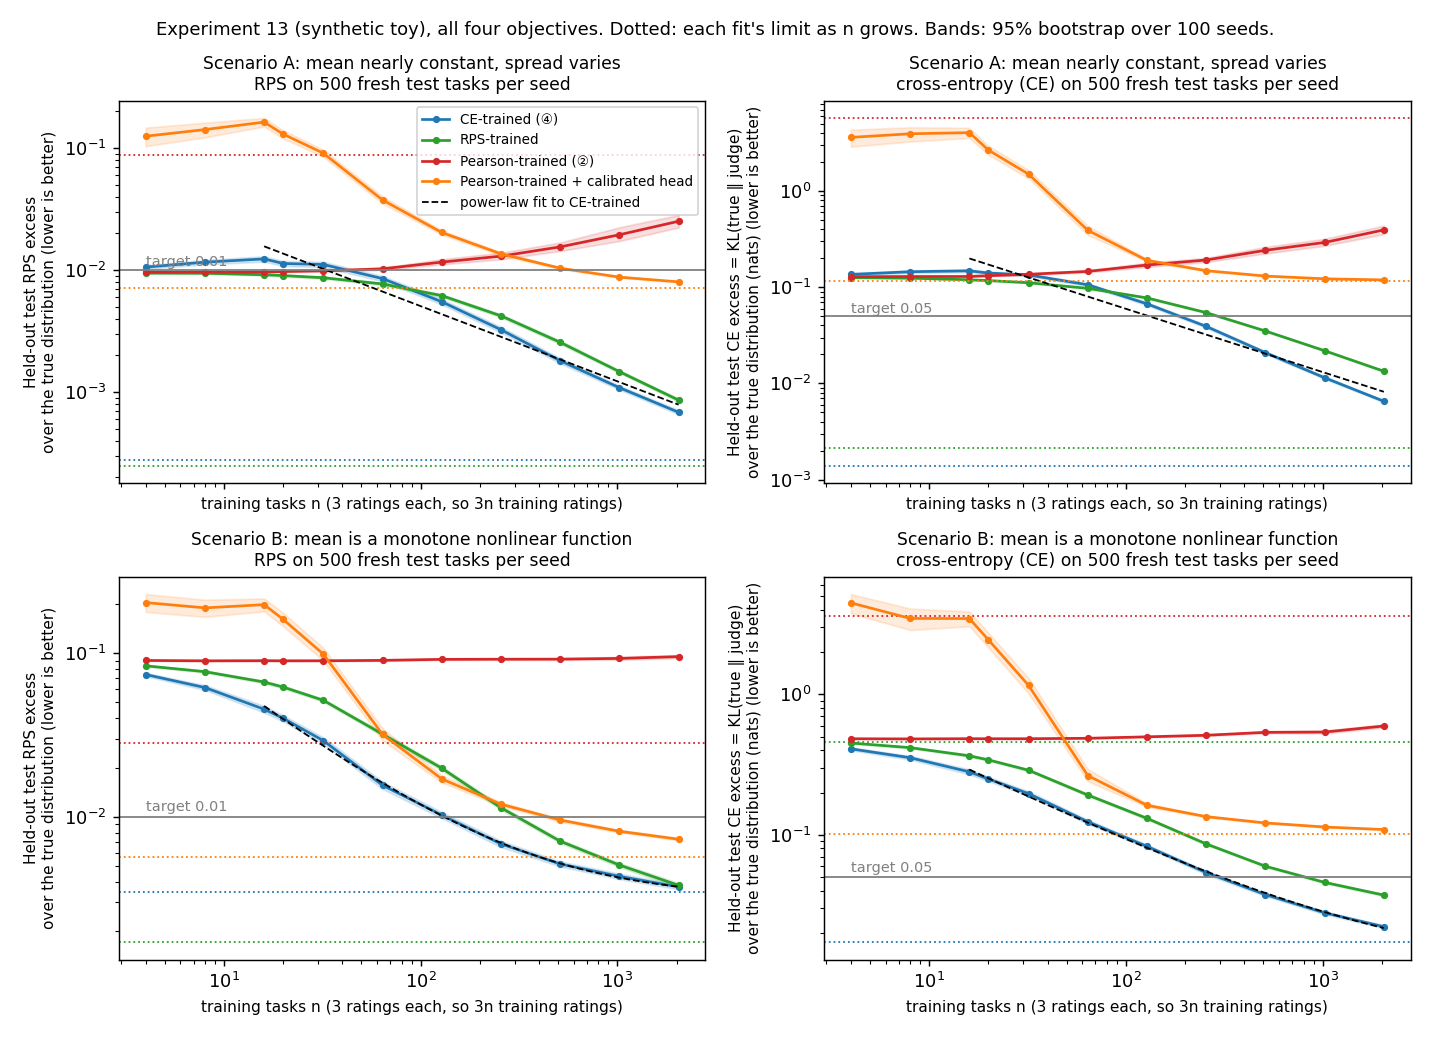
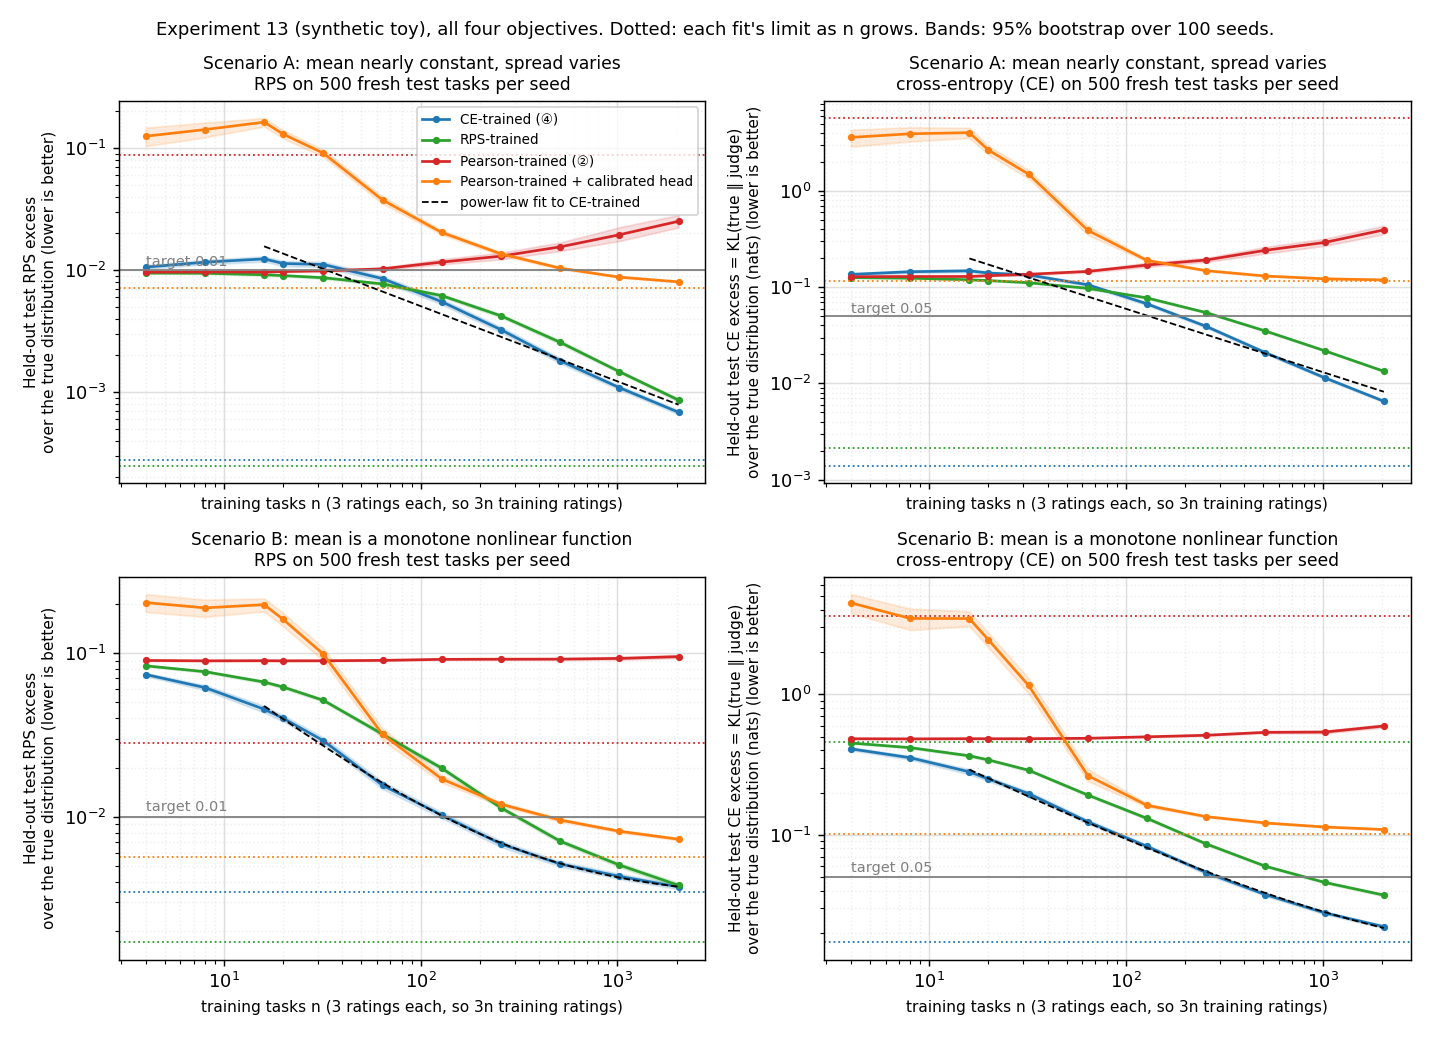
Exp 13 figures: add major and minor gridlines

diff --git a/experiments/archive/13_toy_pearson_vs_ce_nonlinear_ratings_start_10Nov2026_end_10Nov2026/scripts/plot_without_head_and_crossover.py b/experiments/archive/13_toy_pearson_vs_ce_nonlinear_ratings_start_10Nov2026_end_10Nov2026/scripts/plot_without_head_and_crossover.py
@@ -54,6 +54,7 @@ for i, sc in enumerate("AB"):
             ax.annotate(f"CE-trained better from n = {start}\n({3 * start} training ratings)", xy=(start, 0.97), xycoords=("data", "axes fraction"),
                         xytext=(6, -2), textcoords="offset points", va="top", fontsize=8)
         ax.set_xscale("log"); ax.set_yscale("log")
+        ax.grid(True, which="major", alpha=0.4); ax.grid(True, which="minor", ls=":", alpha=0.2)
         ax.set_title(f"{SCEN[sc]}\n{'RPS' if met == 'rps_excess' else 'cross-entropy (CE)'} on 500 fresh test tasks per seed", fontsize=9.5)
         ax.set_ylabel(METRICS[met] + " (lower is better)", fontsize=8.5)
         ax.set_xlabel("training tasks n (3 ratings each, so 3n training ratings)", fontsize=8.5)
@@ -87,6 +88,7 @@ for i, sc in enumerate("AB"):
         ax.axhline(TARGET[met], color="gray", lw=1)
         ax.text(NS[0], TARGET[met] * 1.08, f"target {TARGET[met]}", color="gray", fontsize=8)
         ax.set_xscale("log"); ax.set_yscale("log")
+        ax.grid(True, which="major", alpha=0.4); ax.grid(True, which="minor", ls=":", alpha=0.2)
         ax.set_title(f"{SCEN[sc]}\n{'RPS' if met == 'rps_excess' else 'cross-entropy (CE)'} on 500 fresh test tasks per seed", fontsize=9.5)
         ax.set_ylabel(METRICS[met] + " (lower is better)", fontsize=8.5)
         ax.set_xlabel("training tasks n (3 ratings each, so 3n training ratings)", fontsize=8.5)
